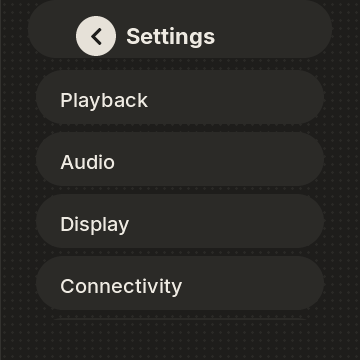
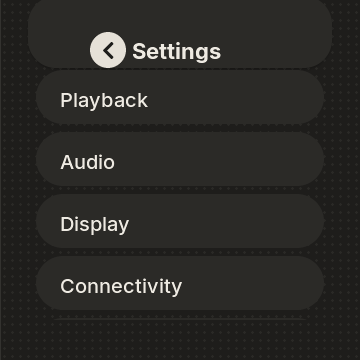
Braun 2.0 review pass: header titles refit to the real text, Choose apps subtitle, notes, renders
Headers clip instead of using LONG_DOT, which rewrote the text the refit measured (Braun 2.0
settings stayed at 22 px). Choose apps' subtitle sits under the lower header.

Changed region(s): [[0.2139, 0.0306, 0.6111, 0.2139]]

diff --git a/ui/braun2.c b/ui/braun2.c
@@ -15,7 +15,7 @@ void br2_emboss(lv_obj_t *o,int raised){
     lv_obj_set_style_border_color(o,light?TC(ON_ACCENT):TC(TEXT_PRIMARY),0);lv_obj_set_style_border_opa(o,light?170:34,0);
     if(raised){lv_obj_set_style_shadow_color(o,TC(FIXED_MEDIA_BLACK),0);lv_obj_set_style_shadow_width(o,8,0);lv_obj_set_style_shadow_offset_y(o,2,0);lv_obj_set_style_shadow_opa(o,light?34:90,0);}
 }
-/* The header title steps down 22 -> 18 -> 16 px to fit beside the back knob, then ends in an ellipsis; it refits
+/* The header title steps down 22 -> 18 -> 16 px to fit beside the back knob, then clips; it refits
  * whenever a screen changes the text (album and folder names). */
 #define BR2_HDR_Y 50      /* the knob's and the title's shared centre line, inside the circle */
 #define BR2_HDR_X 132
@@ -36,7 +36,7 @@ lv_obj_t *br2_header(lv_obj_t *root,const char *text,lv_event_cb_t cb){
     lv_obj_t *cap=lv_obj_create(root);lv_obj_remove_style_all(cap);lv_obj_set_size(cap,304,72);lv_obj_set_pos(cap,28,-4);
     lv_obj_set_style_radius(cap,28,0);lv_obj_set_style_bg_color(cap,TC(SURFACE_STRONG),0);lv_obj_set_style_bg_opa(cap,LV_OPA_COVER,0);lv_obj_remove_flag(cap,LV_OBJ_FLAG_CLICKABLE);br2_emboss(cap,1);
     lv_obj_t *b=br_button(root,108,BR2_HDR_Y,18,LV_SYMBOL_LEFT,TF(UI_20),0);   /* edge at 168 px from the centre */ui_on(b,cb?cb:back,LV_EVENT_CLICKED,NULL,"nav.back",UI_CORE);lv_obj_set_ext_click_area(b,6);
-    lv_obj_t *l=br_label(root,text,br_font(22,1),BR_TXT);lv_obj_set_width(l,BR2_HDR_W);lv_obj_set_x(l,BR2_HDR_X);lv_label_set_long_mode(l,LV_LABEL_LONG_DOT);
+    lv_obj_t *l=br_label(root,text,br_font(22,1),BR_TXT);lv_obj_set_width(l,BR2_HDR_W);lv_obj_set_x(l,BR2_HDR_X);lv_label_set_long_mode(l,LV_LABEL_LONG_CLIP);   /* not DOT: it rewrites the text the refit measures */
     br2_header_fit(l);lv_obj_add_event_cb(l,br2_header_text_cb,LV_EVENT_DRAW_MAIN_BEGIN,NULL);
     br2_keep_tree(cap);br2_keep_tree(b);kit_keep(l);return l;
 }

diff --git a/ui/appshelf.c b/ui/appshelf.c
@@ -304,5 +304,5 @@ void appshelf_pick_create(lv_obj_t *root){
     lv_obj_set_style_bg_main_stop(hd, 170, 0); lv_obj_set_style_bg_grad_stop(hd, 255, 0); lv_obj_set_style_bg_grad_dir(hd, LV_GRAD_DIR_VER, 0);   /* fades into the list */
     lv_obj_remove_flag(hd, LV_OBJ_FLAG_SCROLLABLE | LV_OBJ_FLAG_CLICKABLE);
     ui_header_cb(root, "Choose apps", pick_back_cb);
-    g_pick_sub = label(root, "", 80, 52, 200, TF(UI_14), TC(ACCENT_PRIMARY), LV_TEXT_ALIGN_CENTER);
+    g_pick_sub = label(root, "", 80, th_braun2() ? 66 : 52, 200, TF(UI_14), TC(ACCENT_PRIMARY), LV_TEXT_ALIGN_CENTER);   /* Braun 2.0: under its lower header */
 }

diff --git a/docs/themes/BRAUN2.md b/docs/themes/BRAUN2.md
@@ -36,6 +36,15 @@ The supplied [guide](BRAUN2_GUIDE.md) is the reference brief; the choices above 
 - Volume: a right-hand half-screen panel with the knob and tick scale, plus a LO / HI gain switch and an LED strip (dull orange low, bright high) where the firmware supports gain.
 - Track / album / file menus: QS-style squircle keys, a corner lamp that lights while pressed, a notch only on keys that show on/off, no discs behind the keys.
 
+## Third pass (3.3.0-test3)
+
+- Music options (Braun 2.0 settings > Music screen, live): **Controls** Buttons / Gestures (double-tap play/pause, swipe right next, left previous, faint hints; `main.c` leaves the zone's swipes alone) and **Progress** Linear / Circular (41 ticks along the rim from lower left over the top to lower right on the shared ring recognizer; presses in the 64 px back strip go to Back).
+- Scrubbing either scale shows the shared time preview as a raised Braun 2.0 tile.
+- Info block: title, artist, album wrap to two lines each and climb from the scale; fonts step down only if the block would leave the safe area. LONG_DOT rewrites a label's text, so the layout measures with LONG_WRAP and restores the ellipsis after; headers clip instead.
+- Play mode and favourite beside the elapsed time; hold = Title hold (Immersive by default).
+- Volume: classic Braun's right-rim scale and number box plus a LO / HI gain switch and LED strip (same `ui_set_gain()` path as Settings), only where the firmware supports gain.
+- Quick Settings: battery as a top-rim tick scale mirroring brightness. Working mode as QS keys. QS shade, popup keys, headers inside the circle, subtle emboss, Home weather glyph. Up Next hidden on Home; accent picker hidden.
+
 Renders were regenerated after the first pass (142 of 146 captures). Stats and its landing view need a writable `/usr/data` on the host and were not recaptured; their committed images are from the first pass.
 
 ## Screen and subscreen coverage
